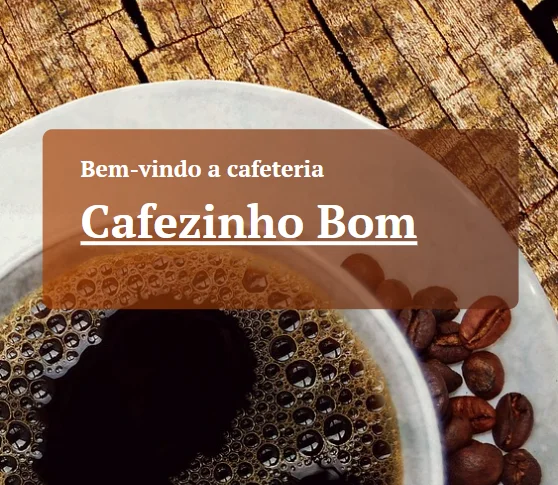
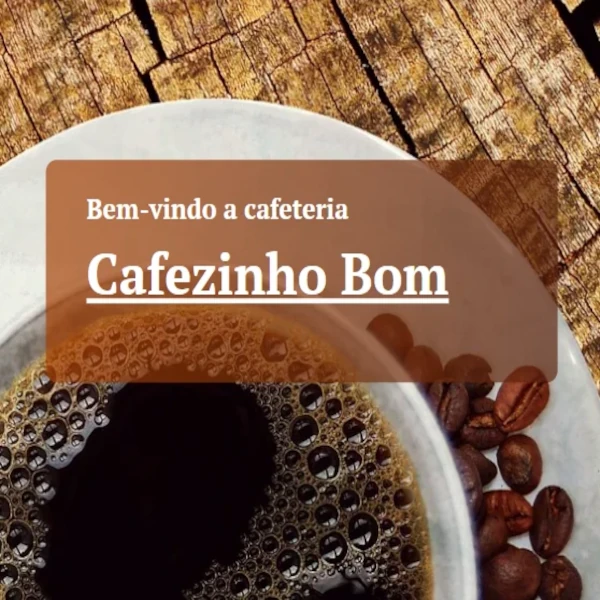
img com proporção 1:1

diff --git a/style.css b/style.css
@@ -325,8 +325,7 @@ header {
 
 .img-project {
   display: block;
-  width: 80vw;
-  max-width: 13rem;
+  width: 13rem;
   height: 13rem;
   margin: 2rem auto;
   border: 1px solid var(--color-5);
